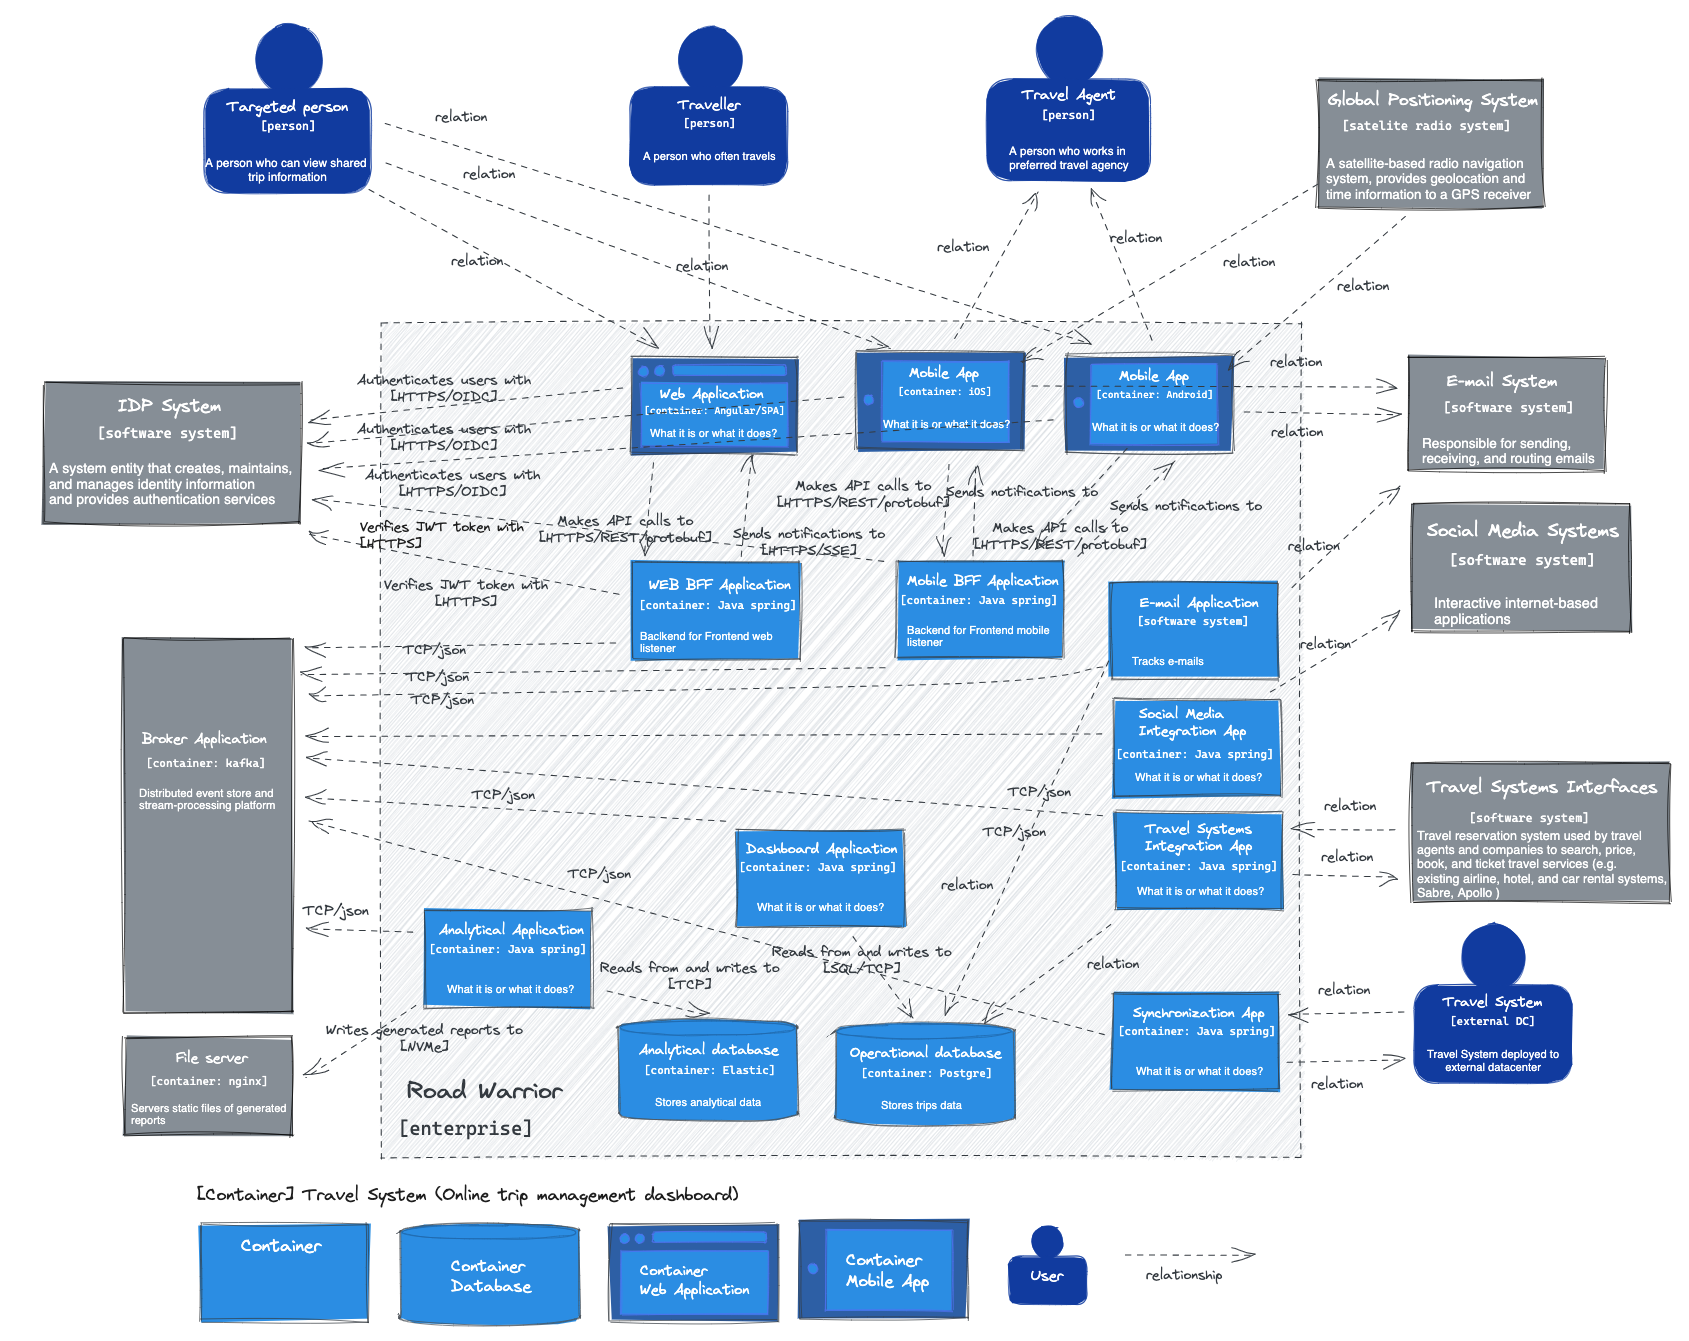
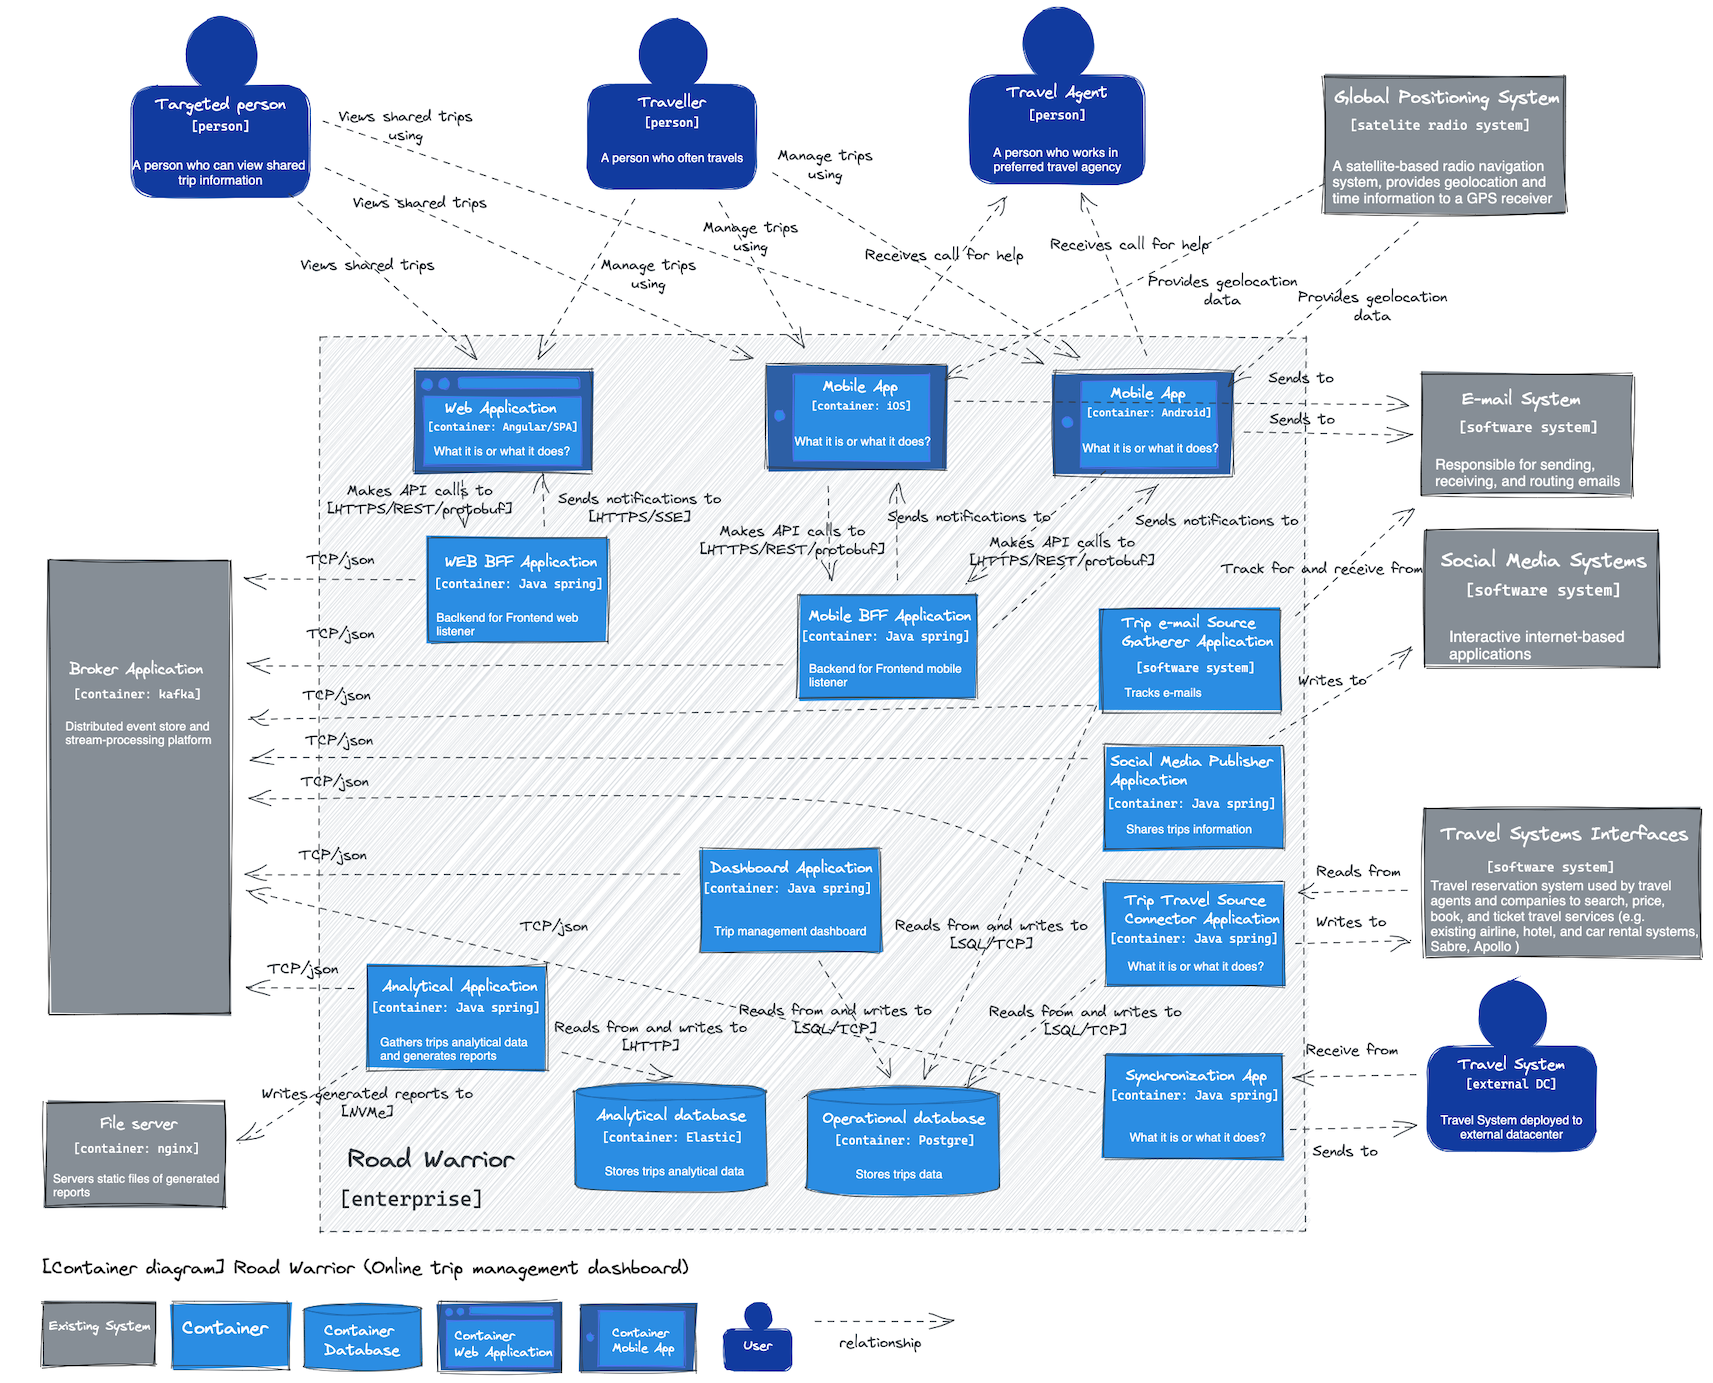
diagrams update

diff --git a/current/architecture/README.md b/current/architecture/README.md
@@ -16,16 +16,20 @@
 
 ![Analytical App Component](https://github.com/ExtravaganzaTeam/KATAS-2023/blob/main/current/architecture/analytical_app_component.png "a title")
 
-## E-mail Application Component
+## Trip E-mail Source Application Component
 
-![E-mail App Component](https://github.com/ExtravaganzaTeam/KATAS-2023/blob/main/current/architecture/e-mail_app_component.png "a title")
+![E-mail App Component](https://github.com/ExtravaganzaTeam/KATAS-2023/blob/main/current/architecture/trip_e-mail_source_app_component.png "a title")
 
 ## Travel System Integration Application Component
 
-![Travel System Integration App Component](https://github.com/ExtravaganzaTeam/KATAS-2023/blob/main/current/architecture/travel_system_integration_app_component.png "a title")
+![Travel System Integration App Component](https://github.com/ExtravaganzaTeam/KATAS-2023/blob/main/current/architecture/trip_travel_source_connector_app_component.png "a title")
 
 
 ## Social Media Integration Application Component
 
-![Social Media Integration App Component](https://github.com/ExtravaganzaTeam/KATAS-2023/blob/main/current/architecture/social_media_integration_app_component.png "a title")
+![Social Media Integration App Component](https://github.com/ExtravaganzaTeam/KATAS-2023/blob/main/current/architecture/social_media_publisher_app_component.png "a title")
 
+
+## Security Context
+
+![Secirity Context](https://github.com/ExtravaganzaTeam/KATAS-2023/blob/main/current/architecture/security_context.png "a title")
